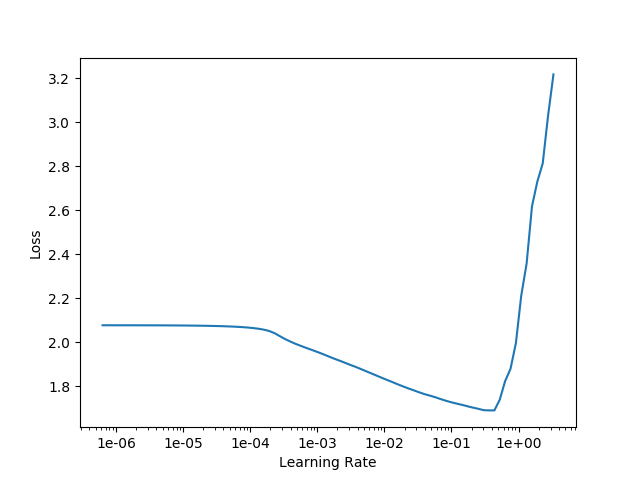
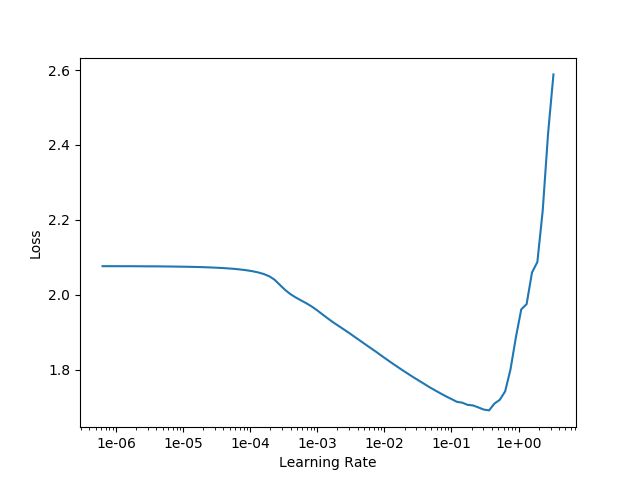
running final LM (on amarel) scripts

diff --git a/TrainFinalLM/train_LM_continue1.py b/TrainFinalLM/train_LM_continue1.py
@@ -1,0 +1,142 @@
+#add BioDL package to my path
+import sys
+sys.path.insert(0, '/home/ah1114/BioDL')
+#and import all the stuff
+from data import *
+from distributed import *
+from fastai.callbacks import *
+from datetime import datetime
+import gc 
+from fastai.utils.mem import GPUMemTrace
+mtrace = GPUMemTrace()
+
+from pynvml import *
+nvmlInit()
+handle = nvmlDeviceGetHandleByIndex(0) 
+info = nvmlDeviceGetMemoryInfo(handle)
+
+from fastai.distributed import * 
+import argparse
+parser = argparse.ArgumentParser()
+parser.add_argument("--local_rank", type=int)
+parser.add_argument("--n_cpus",type=int)
+args = parser.parse_args()
+torch.cuda.set_device(args.local_rank)
+torch.distributed.init_process_group(backend='nccl', init_method='env://')
+
+path = Path('./') 
+best_model_path = Path('/home/ah1114/LanguageOfLife/TrainFinalLM/models/train_LM_best_continue1')
+last_model_path = Path('/home/ah1114/LanguageOfLife/TrainFinalLM/models/train_LM_latest')
+last_encoder_path = Path('/home/ah1114/LanguageOfLife/TrainFinalLM/models/train_LM_latest_enc')
+model_dir = Path('/home/ah1114/LanguageOfLife/TrainFinalLM/models/lm/')
+log_path = Path('/home/ah1114/LanguageOfLife/TrainFinalLM/train_logs/log_train_LM')
+data_path = Path('/scratch/ah1114/LoL/data/')
+presaved_databunch = 'GTDB_class_databunch.pkl'
+vocab_path = Path('/home/ah1114/LanguageOfLife/vocabs')
+vocab_name = vocab_path/'ngs_vocab_k1_withspecial.npy'
+lr_plot_out = '/home/ah1114/LanguageOfLife/TrainFinalLM/plots/lrplot_train_LM_continue1.png'
+losses_plot_out = '/home/ah1114/LanguageOfLife/TrainFinalLM/plots/lossesplot_train_LM_continue1.png'
+plot_lr_out = '/home/ah1114/LanguageOfLife/TrainFinalLM/plots/plotlr_train_LM_continue1.png'
+cache_dir = 'tmp_trainlm' #otherwise your tmp recorder stuff will all go in the same place if you're running multiple jobs
+device = torch.device('cuda')
+#params
+bs=1024 
+ksize=1
+stride=1
+n_layers=3
+n_hid=1152
+drop_mult=0.1
+wd=1e-2 
+moms=(0.98,0.9)
+emb_sz=104
+bptt=100
+#lrate=2e-3
+
+n_cpus=int(args.n_cpus)
+
+tok = BioTokenizer(ksize=ksize, stride=stride)
+if vocab_name.is_file():
+    voc = np.load(vocab_name)
+    model_voc = BioVocab(voc)
+else:
+    model_voc = BioVocab.create_from_ksize(ksize=ksize)
+    np.save(vocab_name, model_voc.itos)
+
+#create new training chunk 
+print('creating databunch')
+start_bunch = datetime.now()
+data = load_data(data_path,presaved_databunch)
+data.bs = bs
+data.bptt = bptt
+end_bunch = datetime.now()
+print('there are',len(data.items),'items in itemlist, and',len(data.valid_ds.items),'items in data.valid_ds')
+#make sure device is where it should be
+data.device = device
+data.num_workers = n_cpus
+
+config = awd_lstm_lm_config.copy()
+config['n_layers'] = n_layers
+config['n_hid'] = n_hid
+config['bidir'] = False
+config['emb_sz'] = emb_sz
+learn = language_model_learner(data, AWD_LSTM, drop_mult=drop_mult, model_dir=model_dir, config=config, pretrained=False) #removed to_fp16() because getting nan losses on v100 cards...
+learn.callbacks.append(SaveModelCallback(learn, every='improvement', monitor='accuracy', name=best_model_path))
+learn.callbacks.append(SaveModelCallback(learn, every='epoch', monitor='accuracy', name=last_model_path))
+learn.callbacks.append(CSVLogger(learn, filename=log_path, append=True))
+
+learn.lr_find(wd=wd)
+lr_plot = learn.recorder.plot(return_fig=True)
+lr_plot.savefig('/home/ah1114/LanguageOfLife/TrainFinalLM/plots/lrplot_train_LM0.png')
+
+#load presaved model
+learn.load('/home/ah1114/LanguageOfLife/TrainFinalLM/models/train_LM_latest_round0_epoch14')
+
+learn = learn.to_my_distributed(args.local_rank)
+
+'''
+#first round of training with 2e-3 lr 
+print('training 15 cycle/s with lrate 2e-3')
+learn.fit_one_cycle(15,2e-3, wd=wd, moms=moms) #15 cycles reliably fits in 3-day time limit
+print('saving checkpoint encoder')
+learn.save_encoder(last_encoder_path) 
+print('saving recorder plots')
+plot_losses = learn.recorder.plot_losses(return_fig=True)
+plot_losses.savefig('/home/ah1114/LanguageOfLife/TrainFinalLM/plots/lossesplot_train_LM0.png')
+
+print('Done!')
+'''
+#second round of training with lrate 5e-4
+print('training first of four rounds of 15 cycle/s with lrate 5e-4')
+learn.lr_find(wd=wd)
+lr_plot = learn.recorder.plot(return_fig=True)
+lr_plot.savefig('/home/ah1114/LanguageOfLife/TrainFinalLM/plots/lrplot_train_LM1.png')
+
+learn.fit_one_cycle(15,5e-4, wd=wd, moms=moms)
+print('saving checkpoint encoder')
+learn.save_encoder(last_encoder_path) 
+'''
+learn.lr_find(wd=wd)
+lr_plot = learn.recorder.plot(return_fig=True)
+lr_plot.savefig('/home/ah1114/LanguageOfLife/TrainFinalLM/plots/lrplot_train_LM2.png')
+
+learn.fit_one_cycle(15,5e-4, wd=wd, moms=moms)
+print('saving checkpoint encoder')
+learn.save_encoder(last_encoder_path) 
+
+learn.lr_find(wd=wd)
+lr_plot = learn.recorder.plot(return_fig=True)
+lr_plot.savefig('/home/ah1114/LanguageOfLife/TrainFinalLM/plots/lrplot_train_LM3.png')
+
+learn.fit_one_cycle(15,5e-4, wd=wd, moms=moms)
+print('saving checkpoint encoder')
+learn.save_encoder(last_encoder_path) 
+
+learn.lr_find(wd=wd)
+lr_plot = learn.recorder.plot(return_fig=True)
+lr_plot.savefig('/home/ah1114/LanguageOfLife/TrainFinalLM/plots/lrplot_train_LM4.png')
+
+learn.fit_one_cycle(15,5e-4, wd=wd, moms=moms)
+print('saving checkpoint encoder')
+learn.save_encoder(last_encoder_path) 
+'''
+print('Done!')
